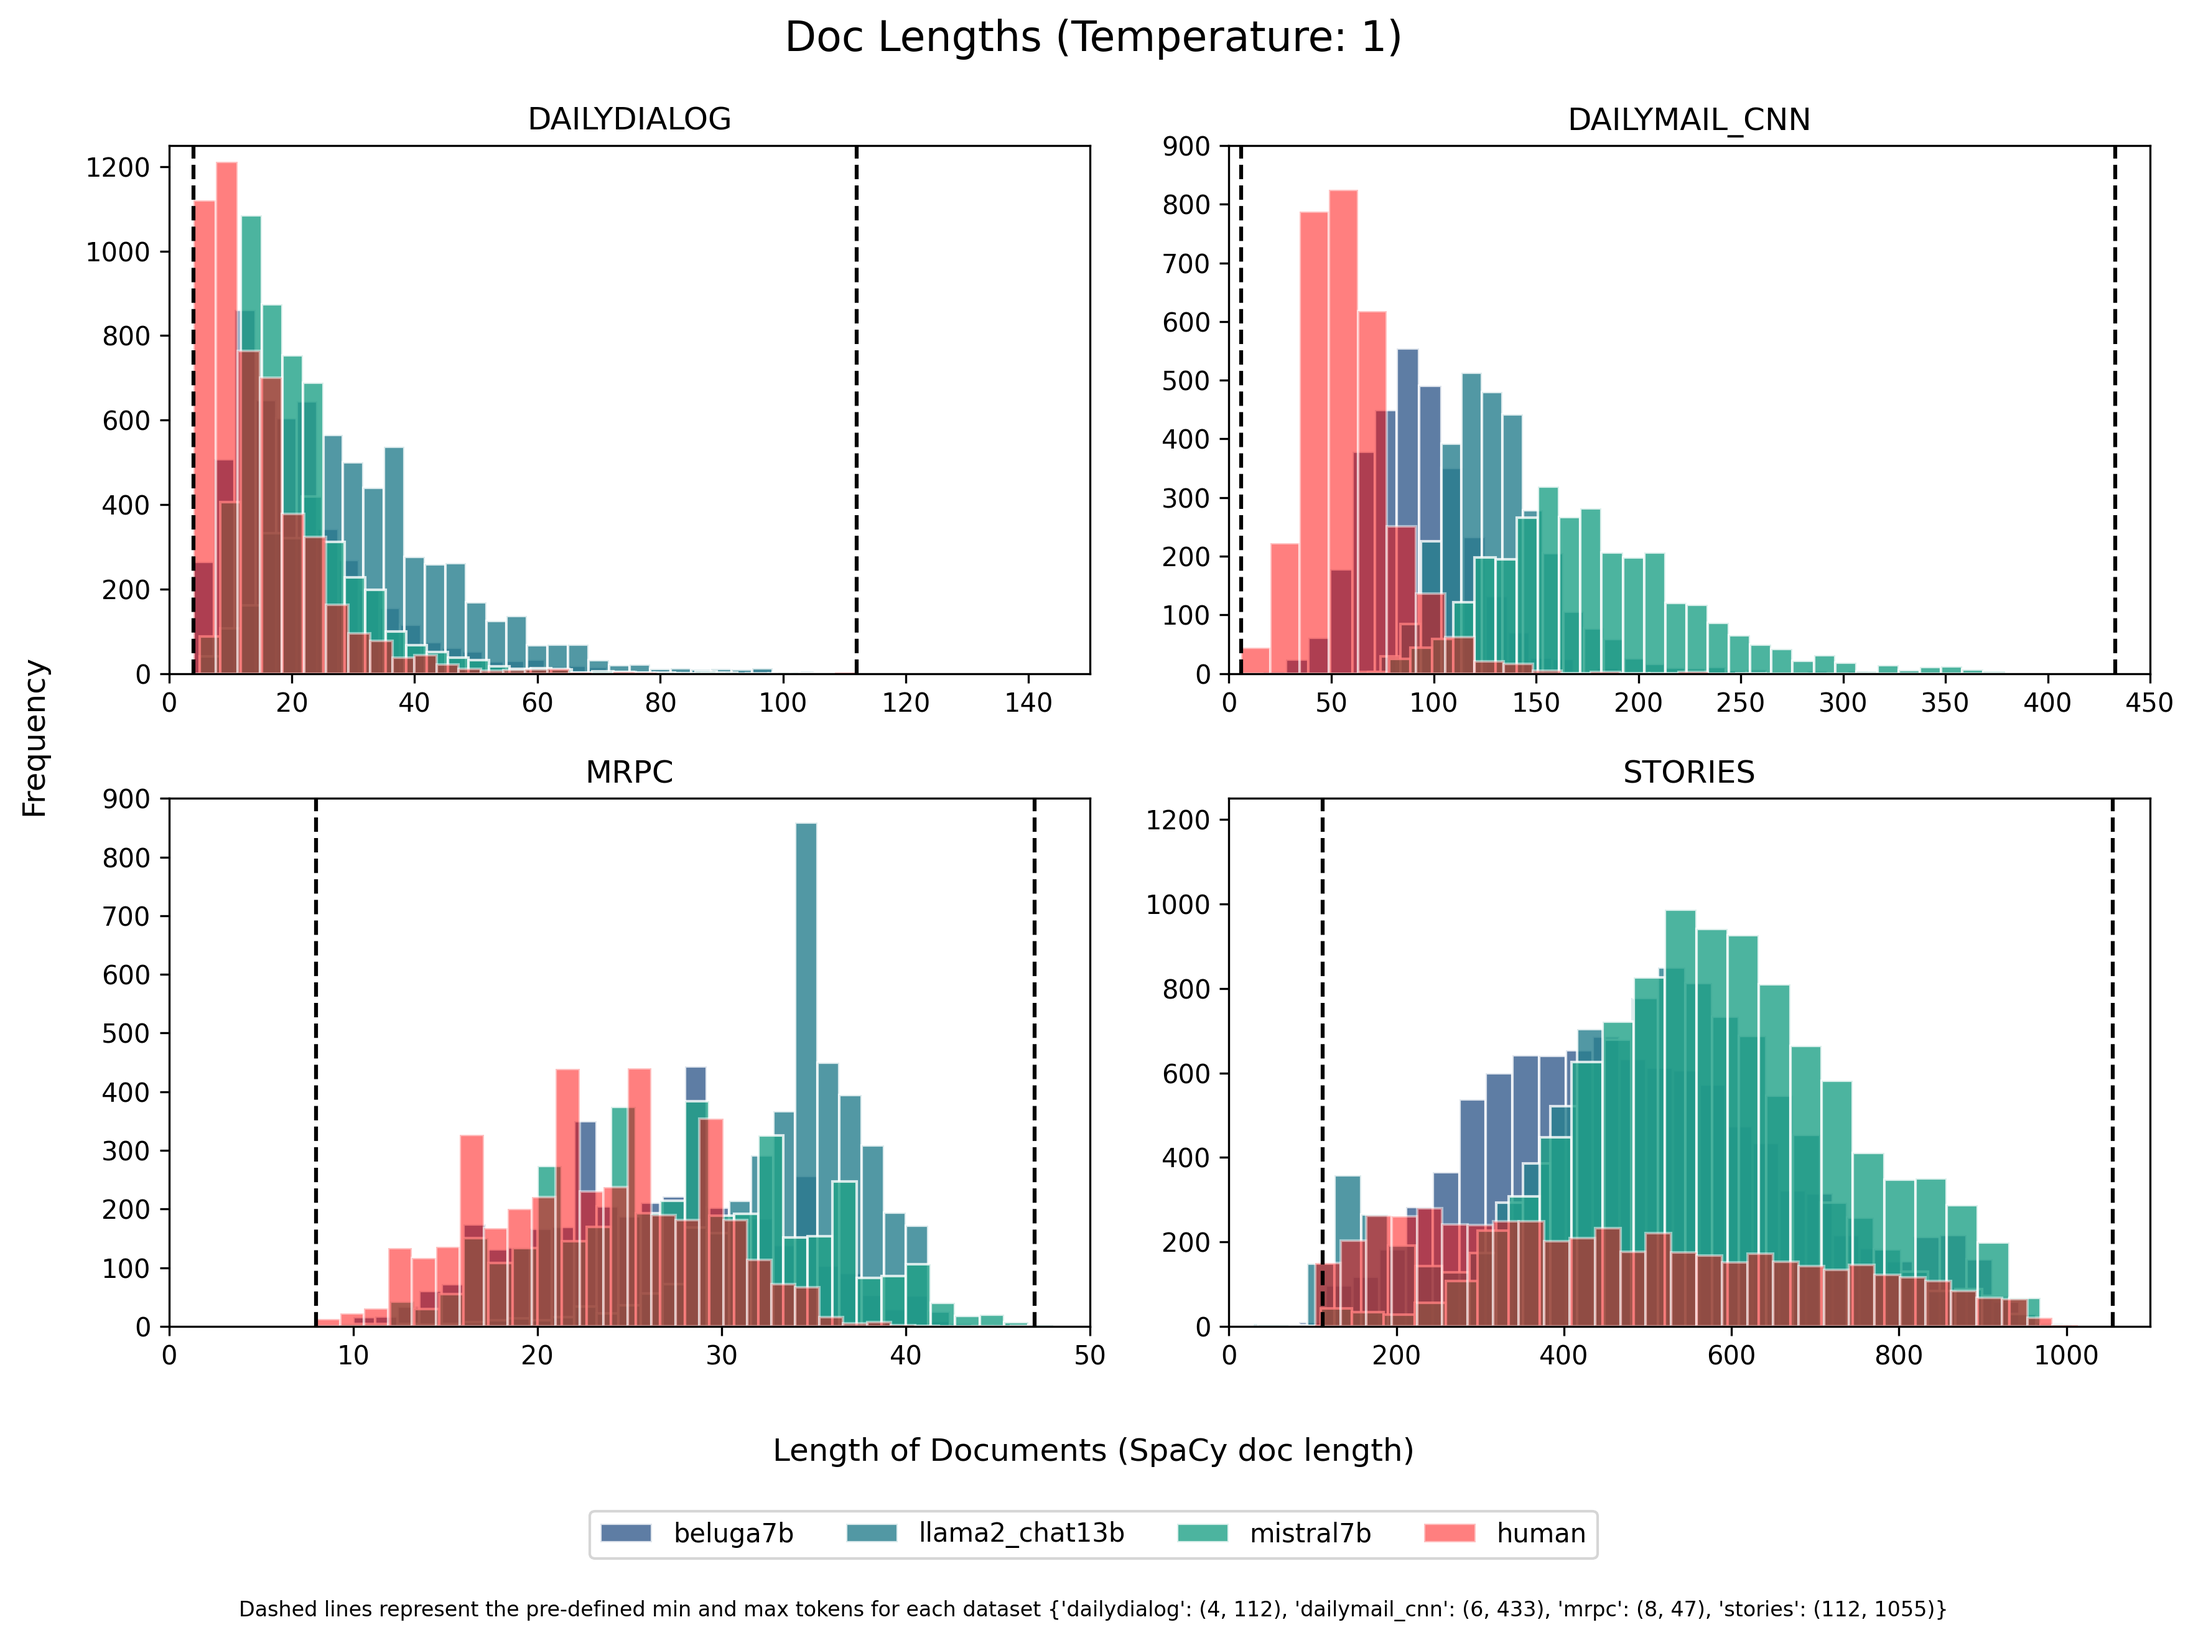
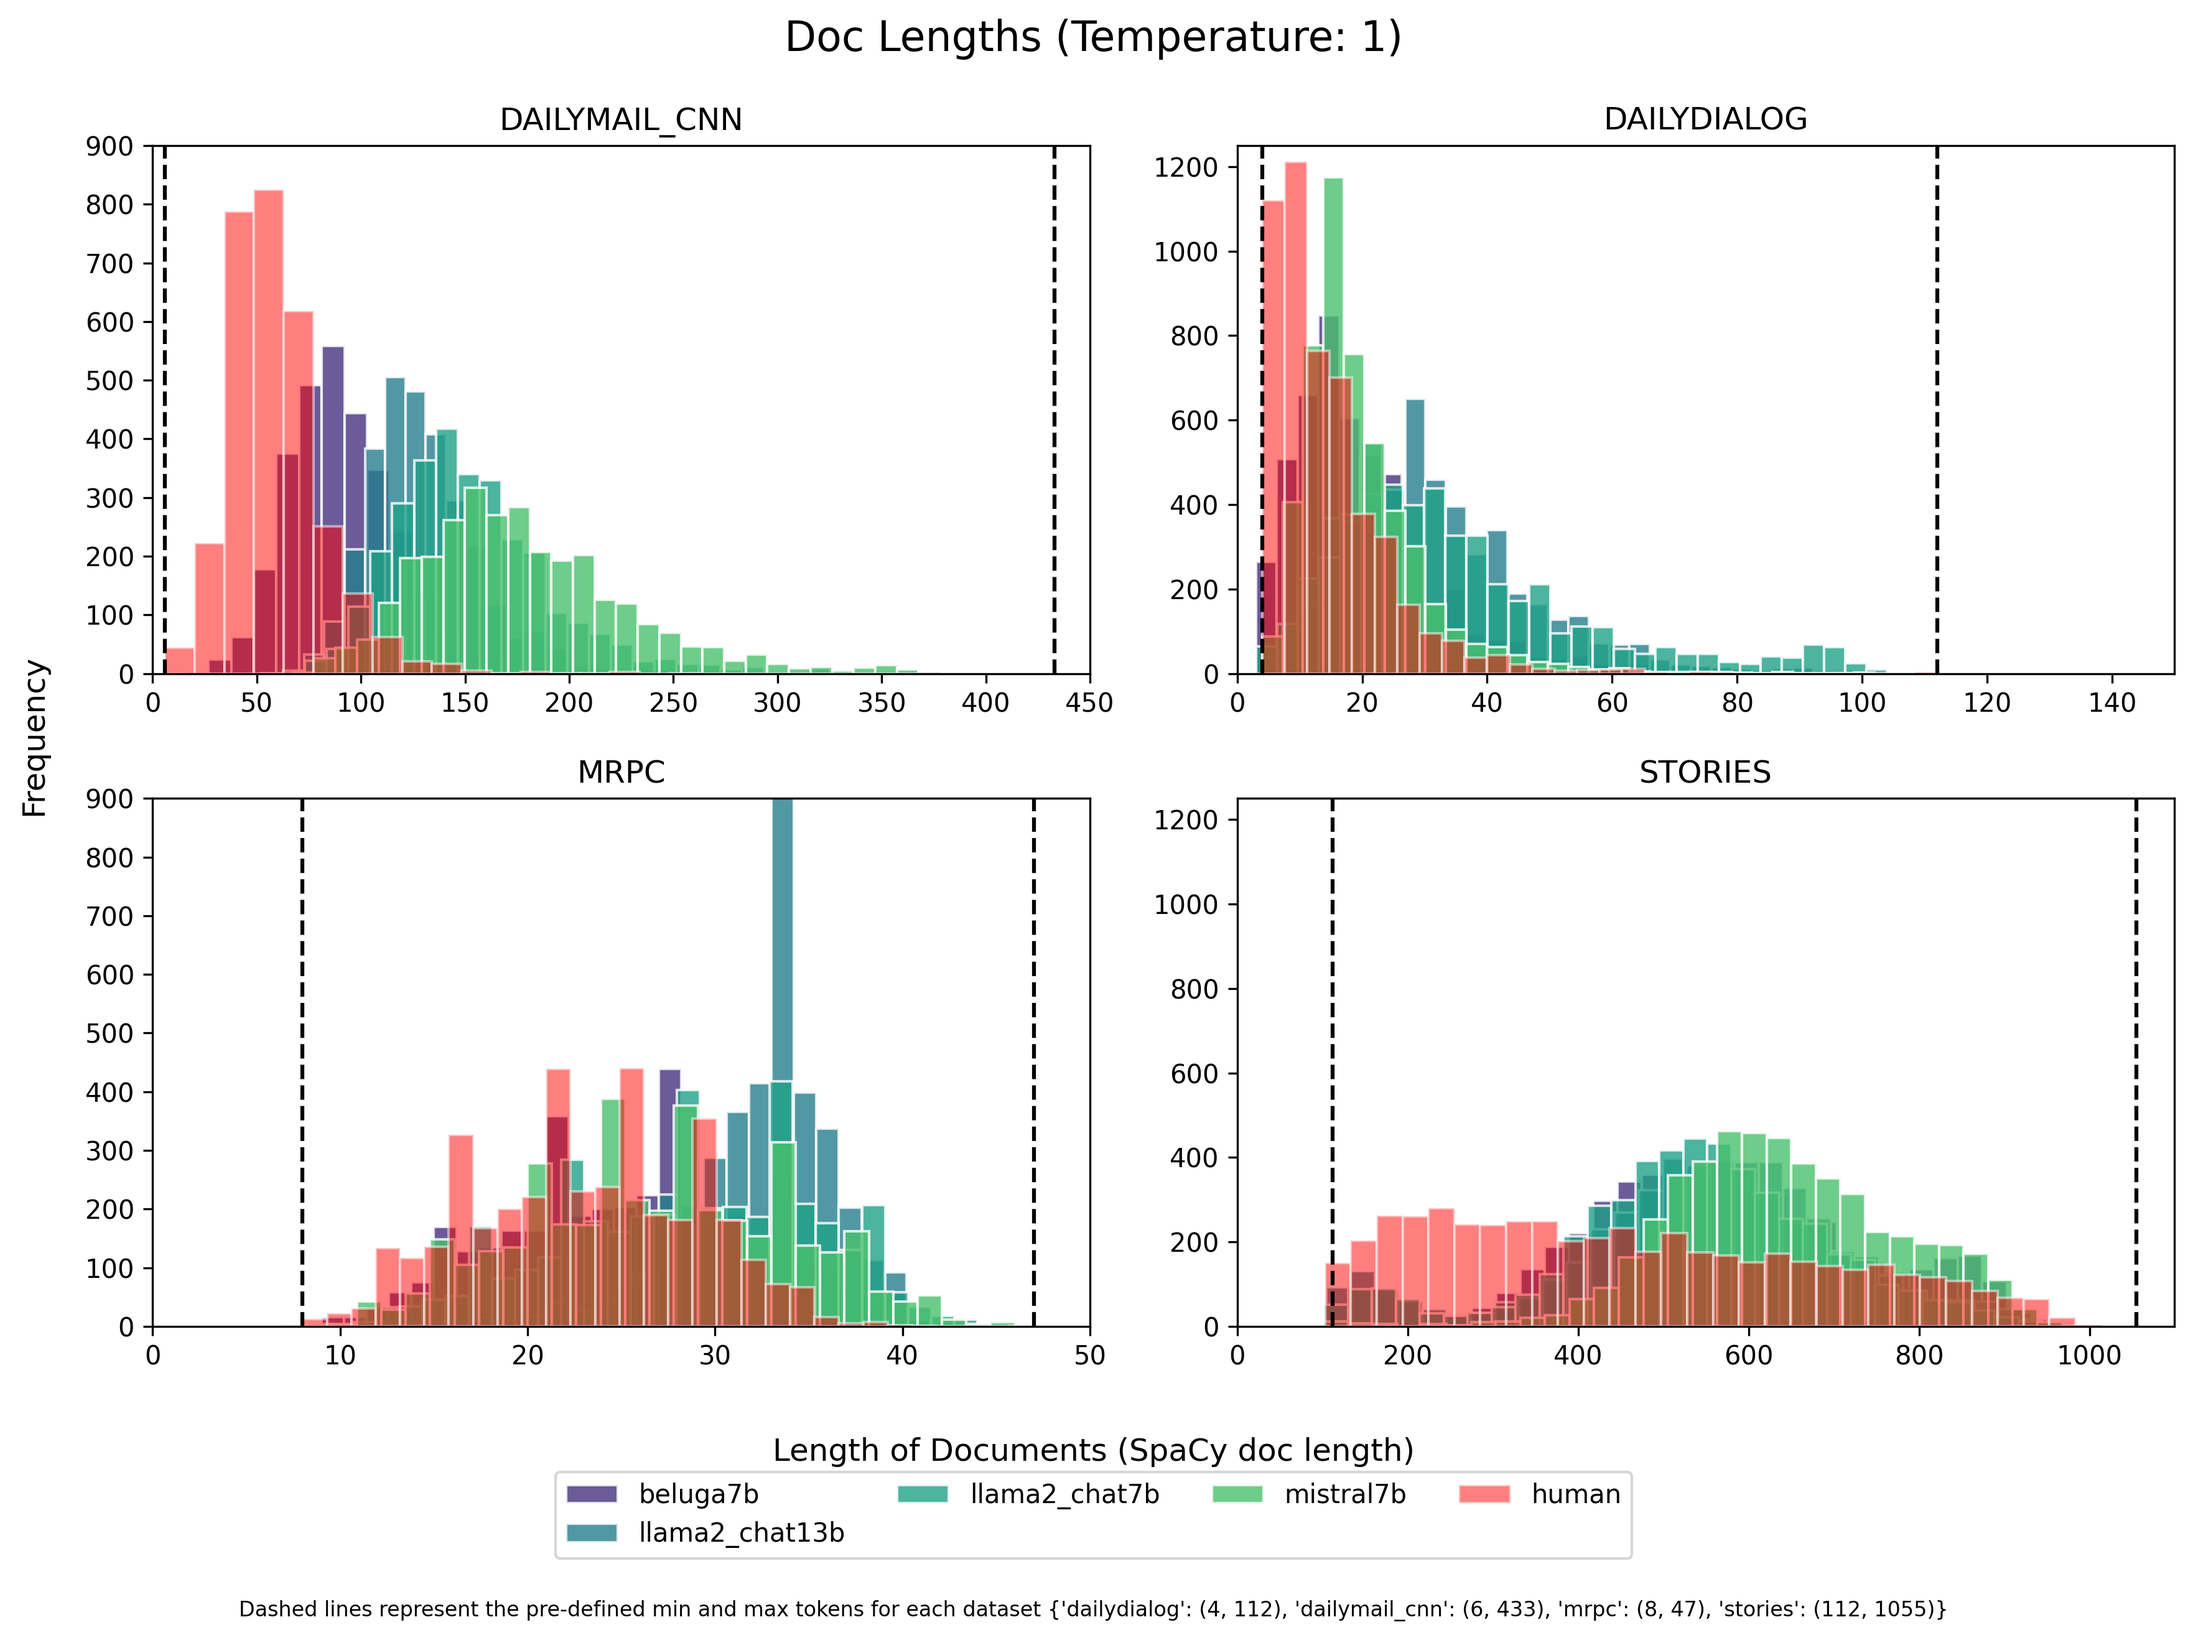
fix: update only for temp1 (with new metrics dataset)

diff --git a/src/analysis/inspect_lengths.py b/src/analysis/inspect_lengths.py
@@ -1,20 +1,38 @@
-'''
+"""
 Inspect data: check lengths of human versus AI 
-'''
+"""
+
+import argparse
 import pathlib
 import sys
-import seaborn as sns
-import pandas as pd
+
 import matplotlib.pyplot as plt
+import pandas as pd
+import seaborn as sns
 from matplotlib.colors import ListedColormap
-import argparse
-import spacy 
+
 sys.path.append(str(pathlib.Path(__file__).parents[2]))
-from src.utils.process_generations import preprocess_datasets
 from src.generate.generation import extract_min_max_tokens
 
-def plot_distribution_per_dataset(df, min_max_tokens_dict=None, col="doc_length", bins=30, figsize=(12, 6), title='Doc Lengths by Framework', save_path=None, caption=False):
-    unique_datasets = df['dataset'].unique()
+DATASETS = [
+    "dailydialog",
+    "dailymail_cnn",
+    "mrpc",
+    "stories",
+]  # nb not the same order as other scripts
+
+
+def plot_distribution_per_dataset(
+    df,
+    min_max_tokens_dict=None,
+    col="doc_length",
+    bins=30,
+    figsize=(12, 6),
+    title="Doc Lengths by Framework",
+    save_path=None,
+    caption=False,
+):
+    unique_datasets = df["dataset"].unique()
     num_datasets = len(unique_datasets)
     fig, axes = plt.subplots(2, 2, figsize=figsize)
     axes = axes.flatten()
@@ -22,28 +40,54 @@ def plot_distribution_per_dataset(df, min_max_tokens_dict=None, col="doc_length"
     colormap = sns.color_palette("viridis").as_hex()
 
     # custom xlims, ylims for each dataset
-    custom_x_lims = {"stories": (0, 1100), "mrpc": (0, 50), "dailydialog": (0, 150), "dailymail_cnn": (0, 450)}
-    custom_y_lims = {"stories": (0, 1250), "mrpc": (0, 900), "dailydialog": (0, 1250), "dailymail_cnn": (0, 900)}
+    custom_x_lims = {
+        "stories": (0, 1100),
+        "mrpc": (0, 50),
+        "dailydialog": (0, 150),
+        "dailymail_cnn": (0, 450),
+    }
+    custom_y_lims = {
+        "stories": (0, 1250),
+        "mrpc": (0, 900),
+        "dailydialog": (0, 1250),
+        "dailymail_cnn": (0, 900),
+    }
 
     for i, dataset in enumerate(unique_datasets):
         # filter dataframe for current dataset
-        dataset_df = df[df['dataset'] == dataset]
+        dataset_df = df[df["dataset"] == dataset]
 
         # plot each hue (e.g., each model, but not human)
         ax = axes[i]
         for j, (hue_val, hue_df) in enumerate(dataset_df.groupby("model", sort=False)):
             if hue_val != "human":
-                ax.hist(x=col, bins=bins, data=hue_df, alpha=0.8, label=hue_val, color=colormap[j], edgecolor="white")
+                ax.hist(
+                    x=col,
+                    bins=bins,
+                    data=hue_df,
+                    alpha=0.8,
+                    label=hue_val,
+                    color=colormap[j],
+                    edgecolor="white",
+                )
 
         #  plot human
         human_df = dataset_df[dataset_df["model"] == "human"]
         if not human_df.empty:
-            ax.hist(x=col, bins=bins, data=human_df, alpha=0.5, label="human", color='red', edgecolor="white")
+            ax.hist(
+                x=col,
+                bins=bins,
+                data=human_df,
+                alpha=0.5,
+                label="human",
+                color="red",
+                edgecolor="white",
+            )
 
         # add contents
-        ax.set_title(f'{dataset.upper()}')
-        ax.set_xlabel('')
-        ax.set_ylabel('')
+        ax.set_title(f"{dataset.upper()}")
+        ax.set_xlabel("")
+        ax.set_ylabel("")
 
         # custom xlims, ylims
         if dataset in custom_x_lims:
@@ -54,11 +98,17 @@ def plot_distribution_per_dataset(df, min_max_tokens_dict=None, col="doc_length"
         # add min, max tokens line
         if min_max_tokens_dict and dataset in min_max_tokens_dict:
             min_tokens, max_tokens = min_max_tokens_dict[dataset]
-            ax.axvline(x=min_tokens, color='black', linestyle='--')
-            ax.axvline(x=max_tokens, color='black', linestyle='--')
+            ax.axvline(x=min_tokens, color="black", linestyle="--")
+            ax.axvline(x=max_tokens, color="black", linestyle="--")
 
-    if min_max_tokens_dict and caption: 
-        fig.text(x=0.5, y=-0.09, s=f"Dashed lines represent the pre-defined min and max tokens for each dataset {min_max_tokens_dict}", ha='center', fontsize=8) 
+    if min_max_tokens_dict and caption:
+        fig.text(
+            x=0.5,
+            y=-0.09,
+            s=f"Dashed lines represent the pre-defined min and max tokens for each dataset {min_max_tokens_dict}",
+            ha="center",
+            fontsize=8,
+        )
 
     fig.suptitle(title, fontsize=16)
     fig.subplots_adjust(bottom=0.1)
@@ -68,68 +118,71 @@ def plot_distribution_per_dataset(df, min_max_tokens_dict=None, col="doc_length"
 
     # extract legend from last plot and place it in the in fig.legend underneath suptitle
     handles, labels = ax.get_legend_handles_labels()
-    fig.legend(handles, labels, loc='lower center', ncol=num_datasets, bbox_to_anchor=(0.5, -0.06))
+    fig.legend(
+        handles,
+        labels,
+        loc="lower center",
+        ncol=num_datasets,
+        bbox_to_anchor=(0.5, -0.06),
+    )
 
     if save_path:
-        plt.savefig(save_path, bbox_inches='tight', dpi=300)
+        plt.savefig(save_path, bbox_inches="tight", dpi=300)
 
-def main(): 
-    # paths 
+
+def main():
+    # paths
     path = pathlib.Path(__file__)
-    ai_dir = path.parents[2] / "datasets" / "ai_datasets" / "vLLM" / "FULL_DATA"
-    human_dir = path.parents[2] / "datasets" / "human_datasets"
+
     save_dir = path.parents[2] / "results" / "analysis" / "lengths"
     save_dir.mkdir(parents=True, exist_ok=True)
 
-    # specs (models, datasets, temperatures)
-    models = ["beluga7b", "llama2_chat13b", "mistral7b"]
-    datasets = ["dailydialog", "dailymail_cnn", "mrpc", "stories"]
-    temperatures = [1, 1.5, 2]
+    temperatures = [1]
 
-    # extract min, max tokens
     min_max_tokens_dict = {}
-
-    for dataset in datasets:
+    for dataset in DATASETS:
         min_max_tokens_dict[dataset] = extract_min_max_tokens(dataset)
 
     for temp in temperatures:
+        # read in data
+        datapath = path.parents[2] / "datasets_complete" / "metrics" / f"temp_{temp}"
+
+        dfs = []
+        for split in ["train", "val", "test"]:
+            df = pd.read_parquet(datapath / f"{split}_metrics.parquet")
+            dfs.append(df)
+
+        df = pd.concat(dfs, ignore_index=True)
+        print(len(df))
+
         print(f"[INFO:] Preprocessing datasets for temperature: {temp} ...")
-        df = preprocess_datasets(ai_dir = ai_dir, human_dir = human_dir, models=models, datasets=datasets, temp = temp, prompt_numbers=[21, 22])
-
-        # identify NA doc lengths and fill them in with spacy
-        nlp = spacy.blank("en")
-
-        print("[INFO:] Extracting doc lengths for NA rows...")
-        for i, row in df.iterrows():
-            if pd.isna(row["doc_length"]):
-                doc = nlp(row["completions"])
-                df.at[i, "doc_length"] = len(doc)
 
         # get min max for each dataset only for model = human
         human_df = df[df["model"] == "human"]
-        
-        for dataset in datasets:
+
+        for dataset in DATASETS:
             dataset_df = human_df[human_df["dataset"] == dataset]
             min_doc_length = dataset_df["doc_length"].min()
             max_doc_length = dataset_df["doc_length"].max()
-            print(f"[INFO:] Dataset: {dataset}, min doc length: {min_doc_length}, max doc length: {max_doc_length}")
+            print(
+                f"[INFO:] Dataset: {dataset}, min doc length: {min_doc_length}, max doc length: {max_doc_length}"
+            )
 
         # plot
         print("[INFO:] Plotting data ...")
         plot_distribution_per_dataset(
-                        df, 
-                        min_max_tokens_dict,
-                        col="doc_length", 
-                        bins=30, 
-                        figsize=(12, 8), 
-                        title = f"Doc Lengths (Temperature: {temp})",
-                        save_path=save_dir / f"temp{temp}_doc_lengths.png", 
-                        caption=True
-                        )                 
-
-        print(df[["model", "completions", "doc_length"]])
+            df,
+            min_max_tokens_dict,
+            col="doc_length",
+            bins=30,
+            figsize=(12, 8),
+            title=f"Doc Lengths (Temperature: {temp})",
+            save_path=save_dir / f"temp{temp}_doc_lengths.png",
+            caption=True,
+        )
 
     print("[INFO:] DONE!")
+
 
 if __name__ == "__main__":
     main()
